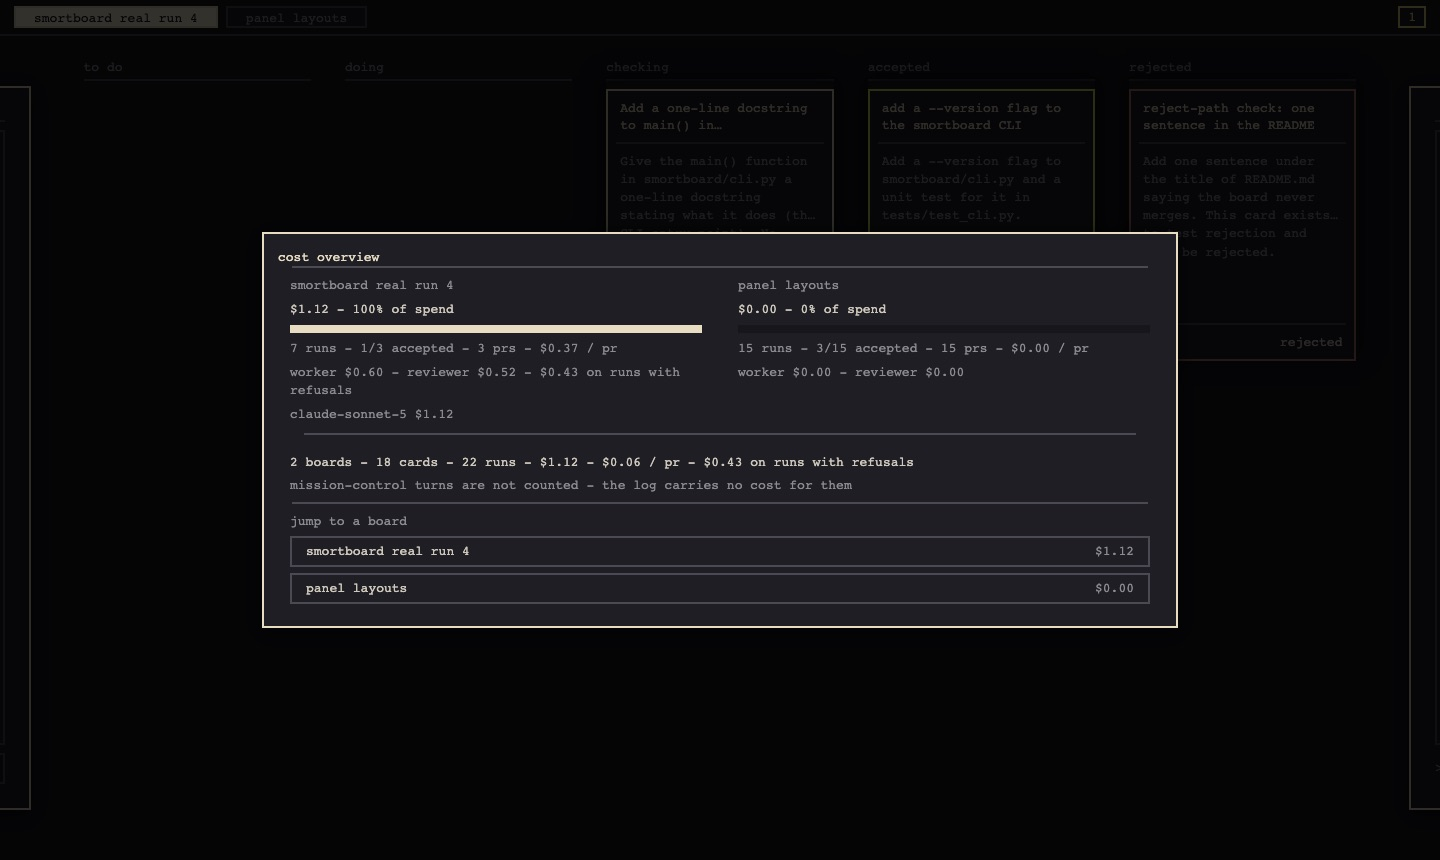
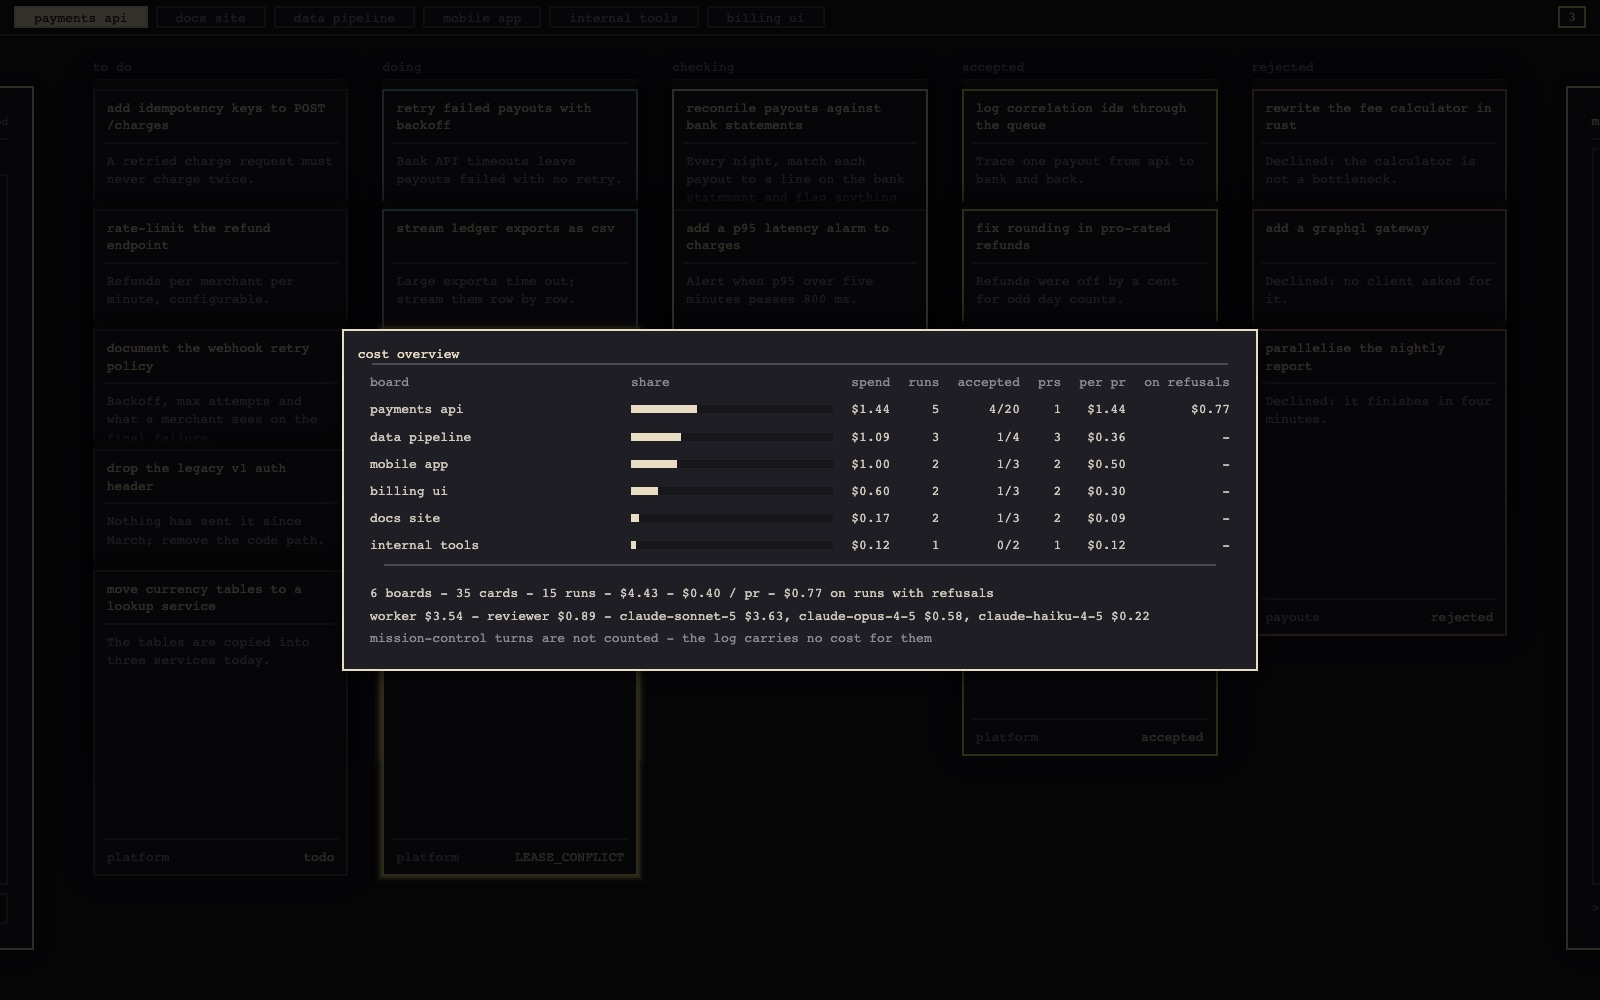
counted a blocked run's spend, hid the pinned workforce's arrows, said 1 attempt, and reshot every readme image from the demo board
Claude-Session: https://claude.ai/code/session_01YR2mTEmeQkRLJeo7uiqHqm

diff --git a/smortboard/ui/layout.css b/smortboard/ui/layout.css
@@ -226,6 +226,8 @@ body {
 /* the display rules above outrank the browser's own [hidden], so the cycle buttons stayed up with
    no card to cycle through */
 .terminal-cycle[hidden], .terminal-subheader[hidden] { display: none; }
+/* the arrows hide on their own when the workforce is pinned, the same way */
+.terminal-cycle .toggle[hidden] { display: none; }
 .terminal-log {
   flex: 1 1 auto; overflow-y: auto; display: flex; flex-direction: column; gap: 12px;
   border: 2px solid var(--grey-border); padding: 8px; min-height: 0;

diff --git a/smortboard/ui/telemetry.js b/smortboard/ui/telemetry.js
@@ -74,7 +74,7 @@ function telemetryCard(data) {
     ? ` - ${formatUsd(data.totals.refusal_cost_usd)} on runs with refusals`
     : '';
   foot.appendChild(
-    textLine(`${data.totals.attempts} attempts - ${formatUsd(data.totals.cost_usd)}${wasteNote}`, 'stat')
+    textLine(`${data.totals.attempts} attempt${data.totals.attempts === 1 ? '' : 's'} - ${formatUsd(data.totals.cost_usd)}${wasteNote}`, 'stat')
   );
   card.appendChild(foot);
   return card;

diff --git a/tests/test_blocked_run_cost.py b/tests/test_blocked_run_cost.py
@@ -1,0 +1,51 @@
+"""a run that blocks or crashes writes no worker_summary or review_gate after its result - its money
+was still spent, and a refused command in it is exactly the waste the cost views exist to show"""
+
+import pytest
+
+from smortboard.store.api import Store
+from smortboard.telemetry import board_costs, card_telemetry
+
+
+@pytest.fixture
+def store(tmp_path):
+    with Store(tmp_path / "board.db") as s:
+        yield s
+
+
+def _result(cost, denials=()):
+    return {
+        "total_cost_usd": cost,
+        "num_turns": 4,
+        "permission_denials": list(denials),
+        "modelUsage": {"claude-opus-4-5": {"costUSD": cost}},
+    }
+
+
+def test_a_worker_run_that_blocked_still_counts_as_worker_spend(store):
+    board = store.create_board("b")
+    card = store.create_card(board["id"], None, "blocked on a question")
+    store.append_event(card["id"], "lifecycle_started", {})
+    denial = {"tool_name": "Bash", "tool_input": {"command": "aws kms list-keys"}}
+    store.append_event(card["id"], "result", _result(0.58, [denial]))
+
+    attempt = card_telemetry(store, card["id"])["attempts"][0]
+    assert attempt["worker_cost_usd"] == pytest.approx(0.58)
+    assert attempt["worker_model"] == "claude-opus-4-5"
+    row = board_costs(store, board["id"])[0]
+    assert row["cost_usd"] == pytest.approx(0.58)
+    assert row["refusal_cost_usd"] == pytest.approx(0.58)
+
+
+def test_a_review_that_crashed_after_the_test_gate_counts_as_reviewer_spend(store):
+    board = store.create_board("b")
+    card = store.create_card(board["id"], None, "reviewer fell over")
+    store.append_event(card["id"], "lifecycle_started", {})
+    store.append_event(card["id"], "result", _result(0.30))
+    store.append_event(card["id"], "worker_summary", {"text": "done"})
+    store.append_event(card["id"], "test_gate", {"passed": True, "command": "true", "exit_code": 0})
+    store.append_event(card["id"], "result", _result(0.12))
+
+    attempt = card_telemetry(store, card["id"])["attempts"][0]
+    assert attempt["worker_cost_usd"] == pytest.approx(0.30)
+    assert attempt["reviewer_cost_usd"] == pytest.approx(0.12)

diff --git a/smortboard/telemetry.py b/smortboard/telemetry.py
@@ -198,8 +198,8 @@ def usage_projection(store: Store) -> dict[str, Any]:
 # a `result` stream event carries no field saying whether it was the worker or the reviewer - both
 # run through the same container runtime. it is tagged by what immediately follows it in the log:
 # a `worker_summary` (appended right after a worker run) or a `review_gate` (right after a review),
-# whichever comes first, before the next `result`. anything unmatched (a run that never reported
-# back) counts nowhere rather than being guessed at.
+# whichever comes first, before the next `result`. a run that never reported back (blocked or
+# crashed) is placed by what came before it instead - see _result_role.
 _ROLE_AFTER_RESULT = {"worker_summary": "worker", "review_gate": "reviewer"}
 
 
@@ -216,11 +216,19 @@ def _attempts(events: list[dict[str, Any]]) -> list[list[dict[str, Any]]]:
 def _result_role(segment: list[dict[str, Any]], index: int) -> str | None:
     for event in segment[index + 1 :]:
         if event["kind"] == "result":
-            return None  # another result arrived first - this one's outcome was never recorded
+            break  # another result arrived first - read the role off what came before instead
         role = _ROLE_AFTER_RESULT.get(event["kind"])
         if role:
             return role
-    return None
+    # a run that blocked or crashed reports nothing after it, but its money was still spent: the
+    # lifecycle's own order says whose it was - the reviewer runs straight after the test gate, the
+    # worker after the attempt's start or a fix round
+    for event in reversed(segment[:index]):
+        if event["kind"] == "test_gate":
+            return "reviewer"
+        if event["kind"] in ("lifecycle_started", "fix_round"):
+            return "worker"
+    return "worker"
 
 
 def _denial_target(denial: dict[str, Any]) -> str:

diff --git a/README.md b/README.md
@@ -89,10 +89,11 @@ Chat with the board's orchestrator. It answers with a plan and cards, each with 
 it sees what each model has cost and passed on this board.
 </td>
 <td width="50%" valign="top">
-<img src="docs/images/workforce.jpg" alt="Workforce drawer beside mission control" width="100%"><br>
+<img src="docs/images/workforce.jpg" alt="Workforce drawer pinned to one card" width="100%"><br>
 <b>Workforce</b> <code>,</code><br>
-A terminal with the focused card's agent: its narration and the board's gate lines. A note sent
-here reaches a running agent at its next step.
+A terminal with a card's agent: its narration and the board's gate lines. It is <b>pinned</b> to the
+card you're on; with none focused it is a <b>mall cam</b>, rotating through every working card. A
+note sent here reaches a running agent at its next step.
 </td>
 </tr>
 <tr>
@@ -113,8 +114,9 @@ requests are merged, and two cards whose leases may overlap never run at once.
 <td width="50%" valign="top">
 <img src="docs/images/costs.jpg" alt="Cost overview across boards" width="100%"><br>
 <b>Cost per board</b> <code>c</code><br>
-Spend and share per board, runs, accepted cards, pull requests, cost per pull request, worker vs
-reviewer spend, and money spent on runs that hit a refusal.
+One row per board: its share of all spend, runs, accepted cards, pull requests, cost per pull
+request, and money spent on runs that hit a refusal. Worker vs reviewer and spend by model sit in
+the totals.
 </td>
 <td width="50%" valign="top">
 <img src="docs/images/telemetry.jpg" alt="Card telemetry" width="100%"><br>
@@ -250,6 +252,10 @@ contain its toolchain, because the test gate is offline. smortboard's own image 
 | `--no-browser` | | opens a tab |
 | | `SMORTBOARD_CARD_IMAGE` | `smortboard-card:latest` |
 | | `SMORTBOARD_CARD_TOKEN_PATH` | `~/.config/smortboard/card_token` |
+| | `SMORTBOARD_OPERATOR_NAME` | your `git config user.name` |
+
+The operator name is who the board shows on your own notes and chat lines, and who the agents are
+told to trust: a live note starts `Note from <name>, via the board:`.
 
 Board-wide settings are set with `PATCH /api/settings`: `findings_route`, `orchestrator_model`,
 `worker_model`, `reviewer_model`, `max_parallel`, and `resume_briefing` (`"off"` disables it).
